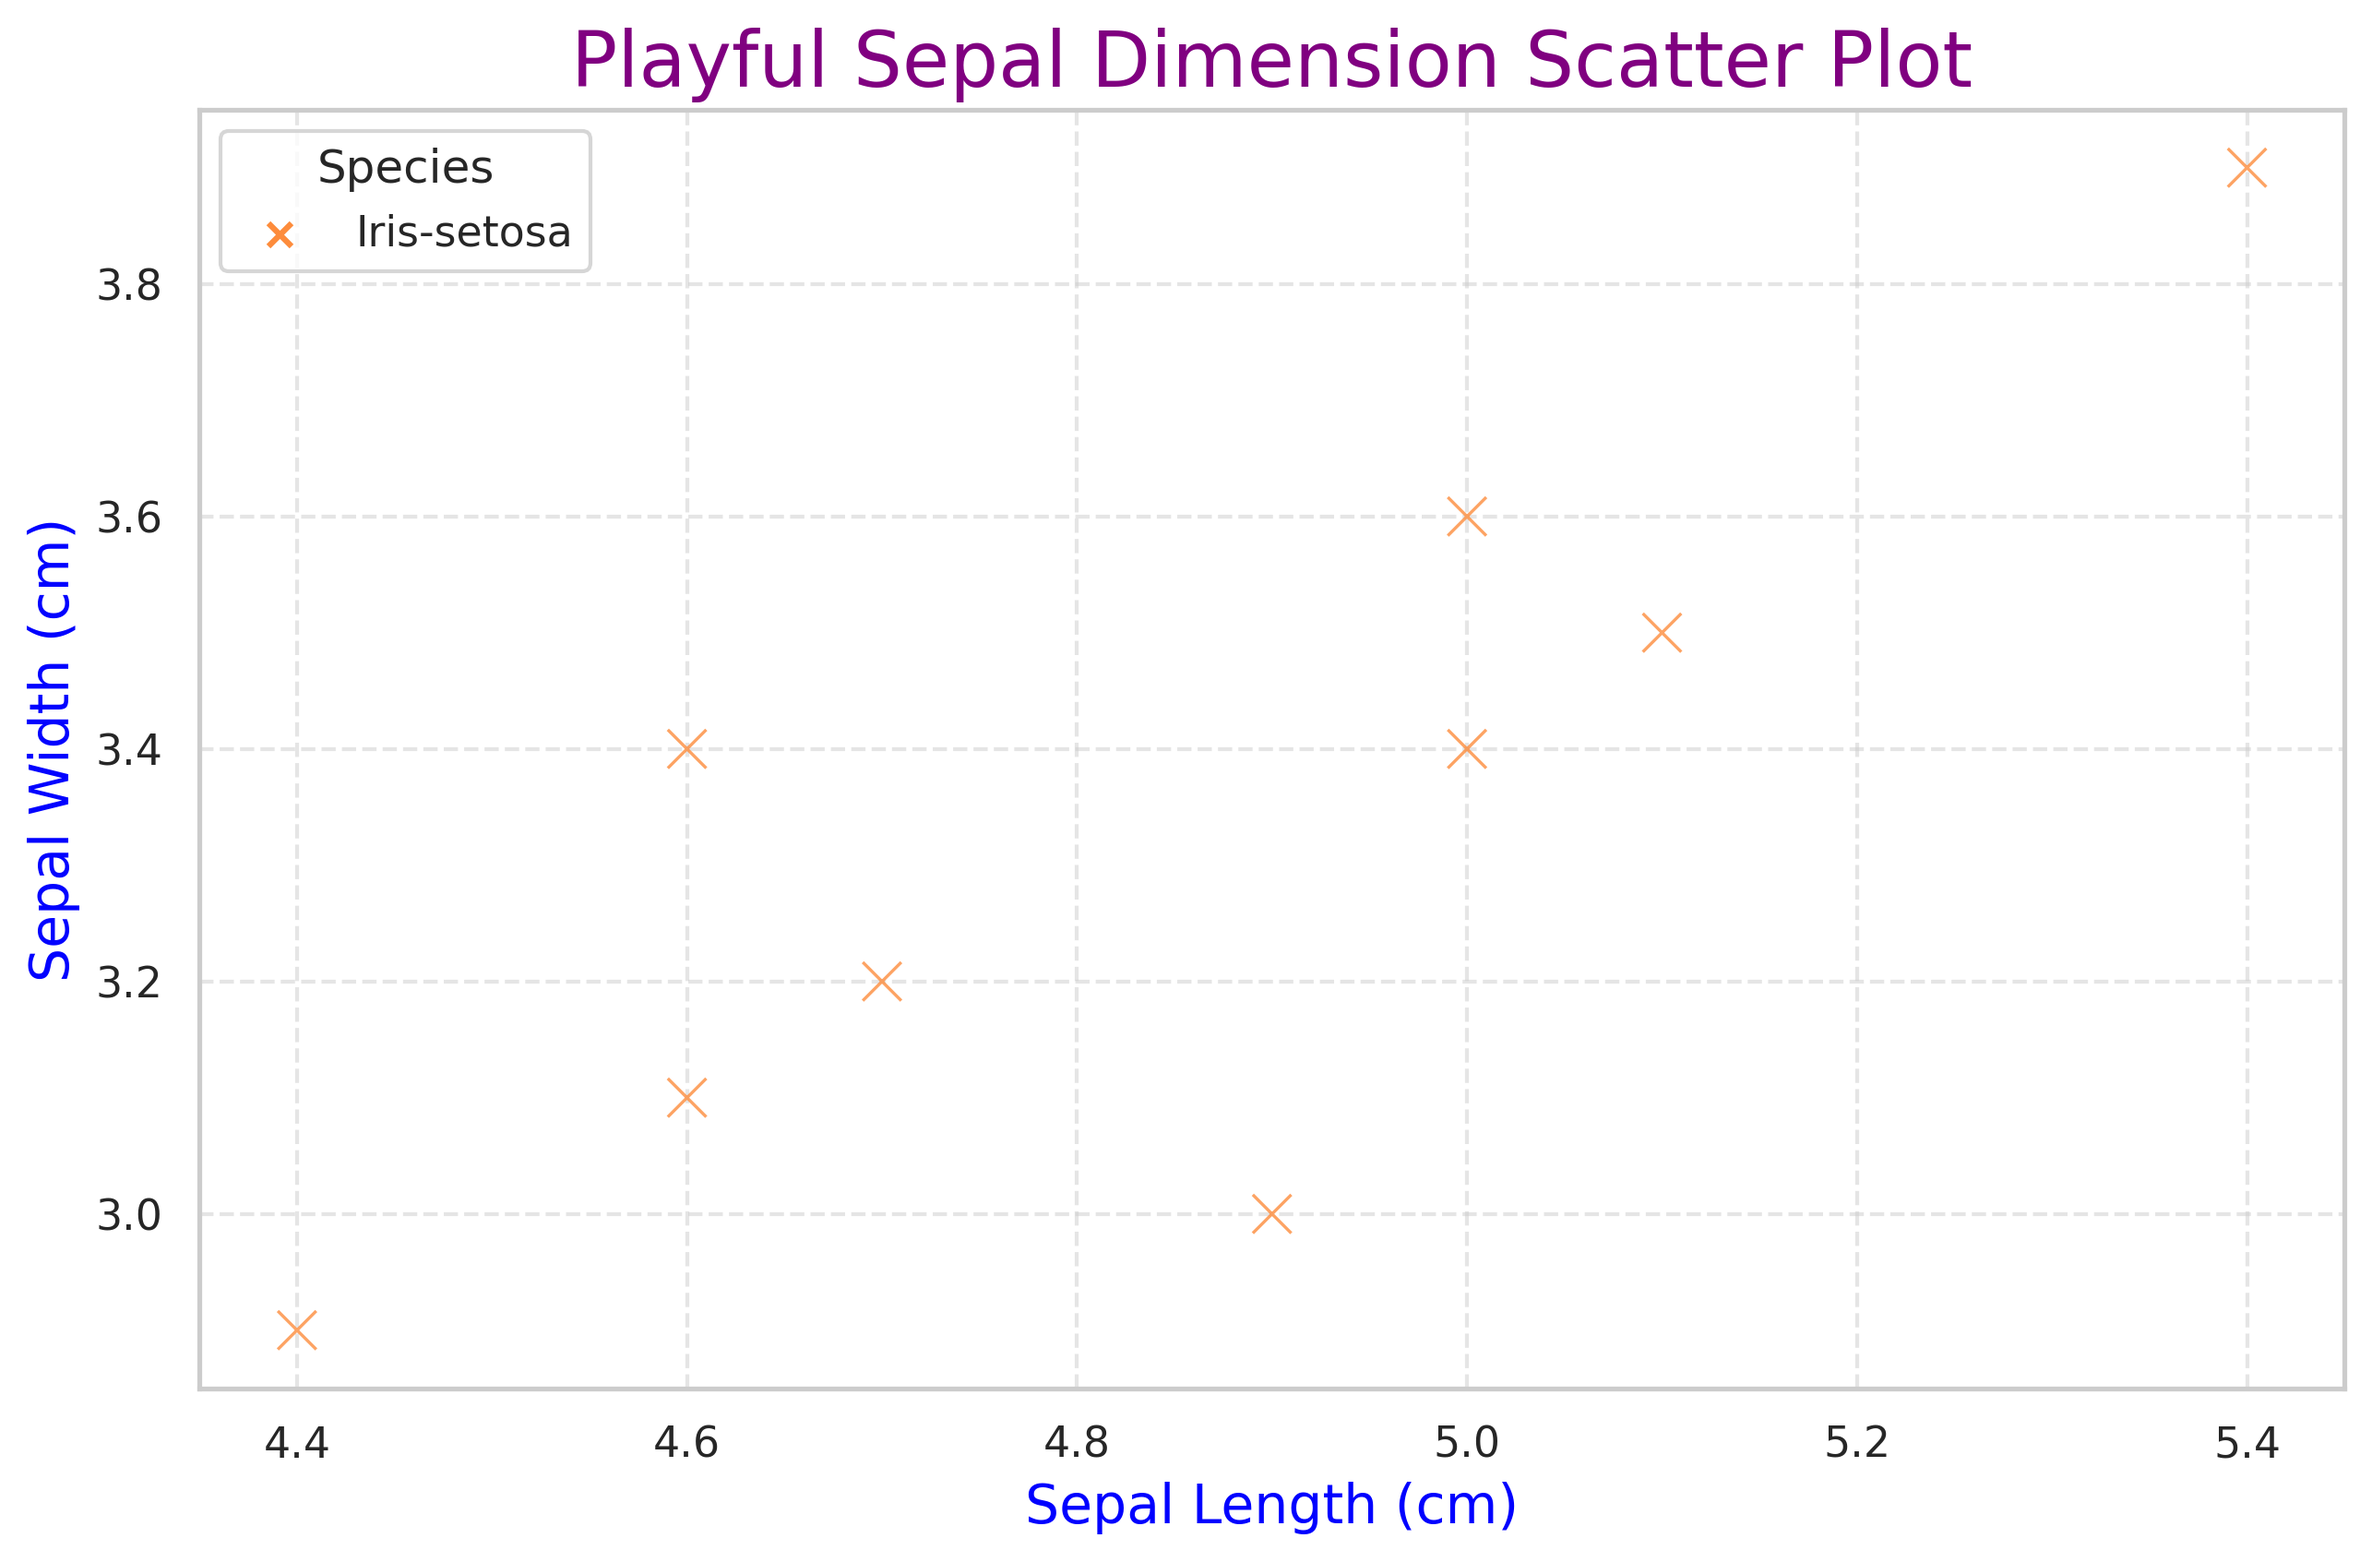
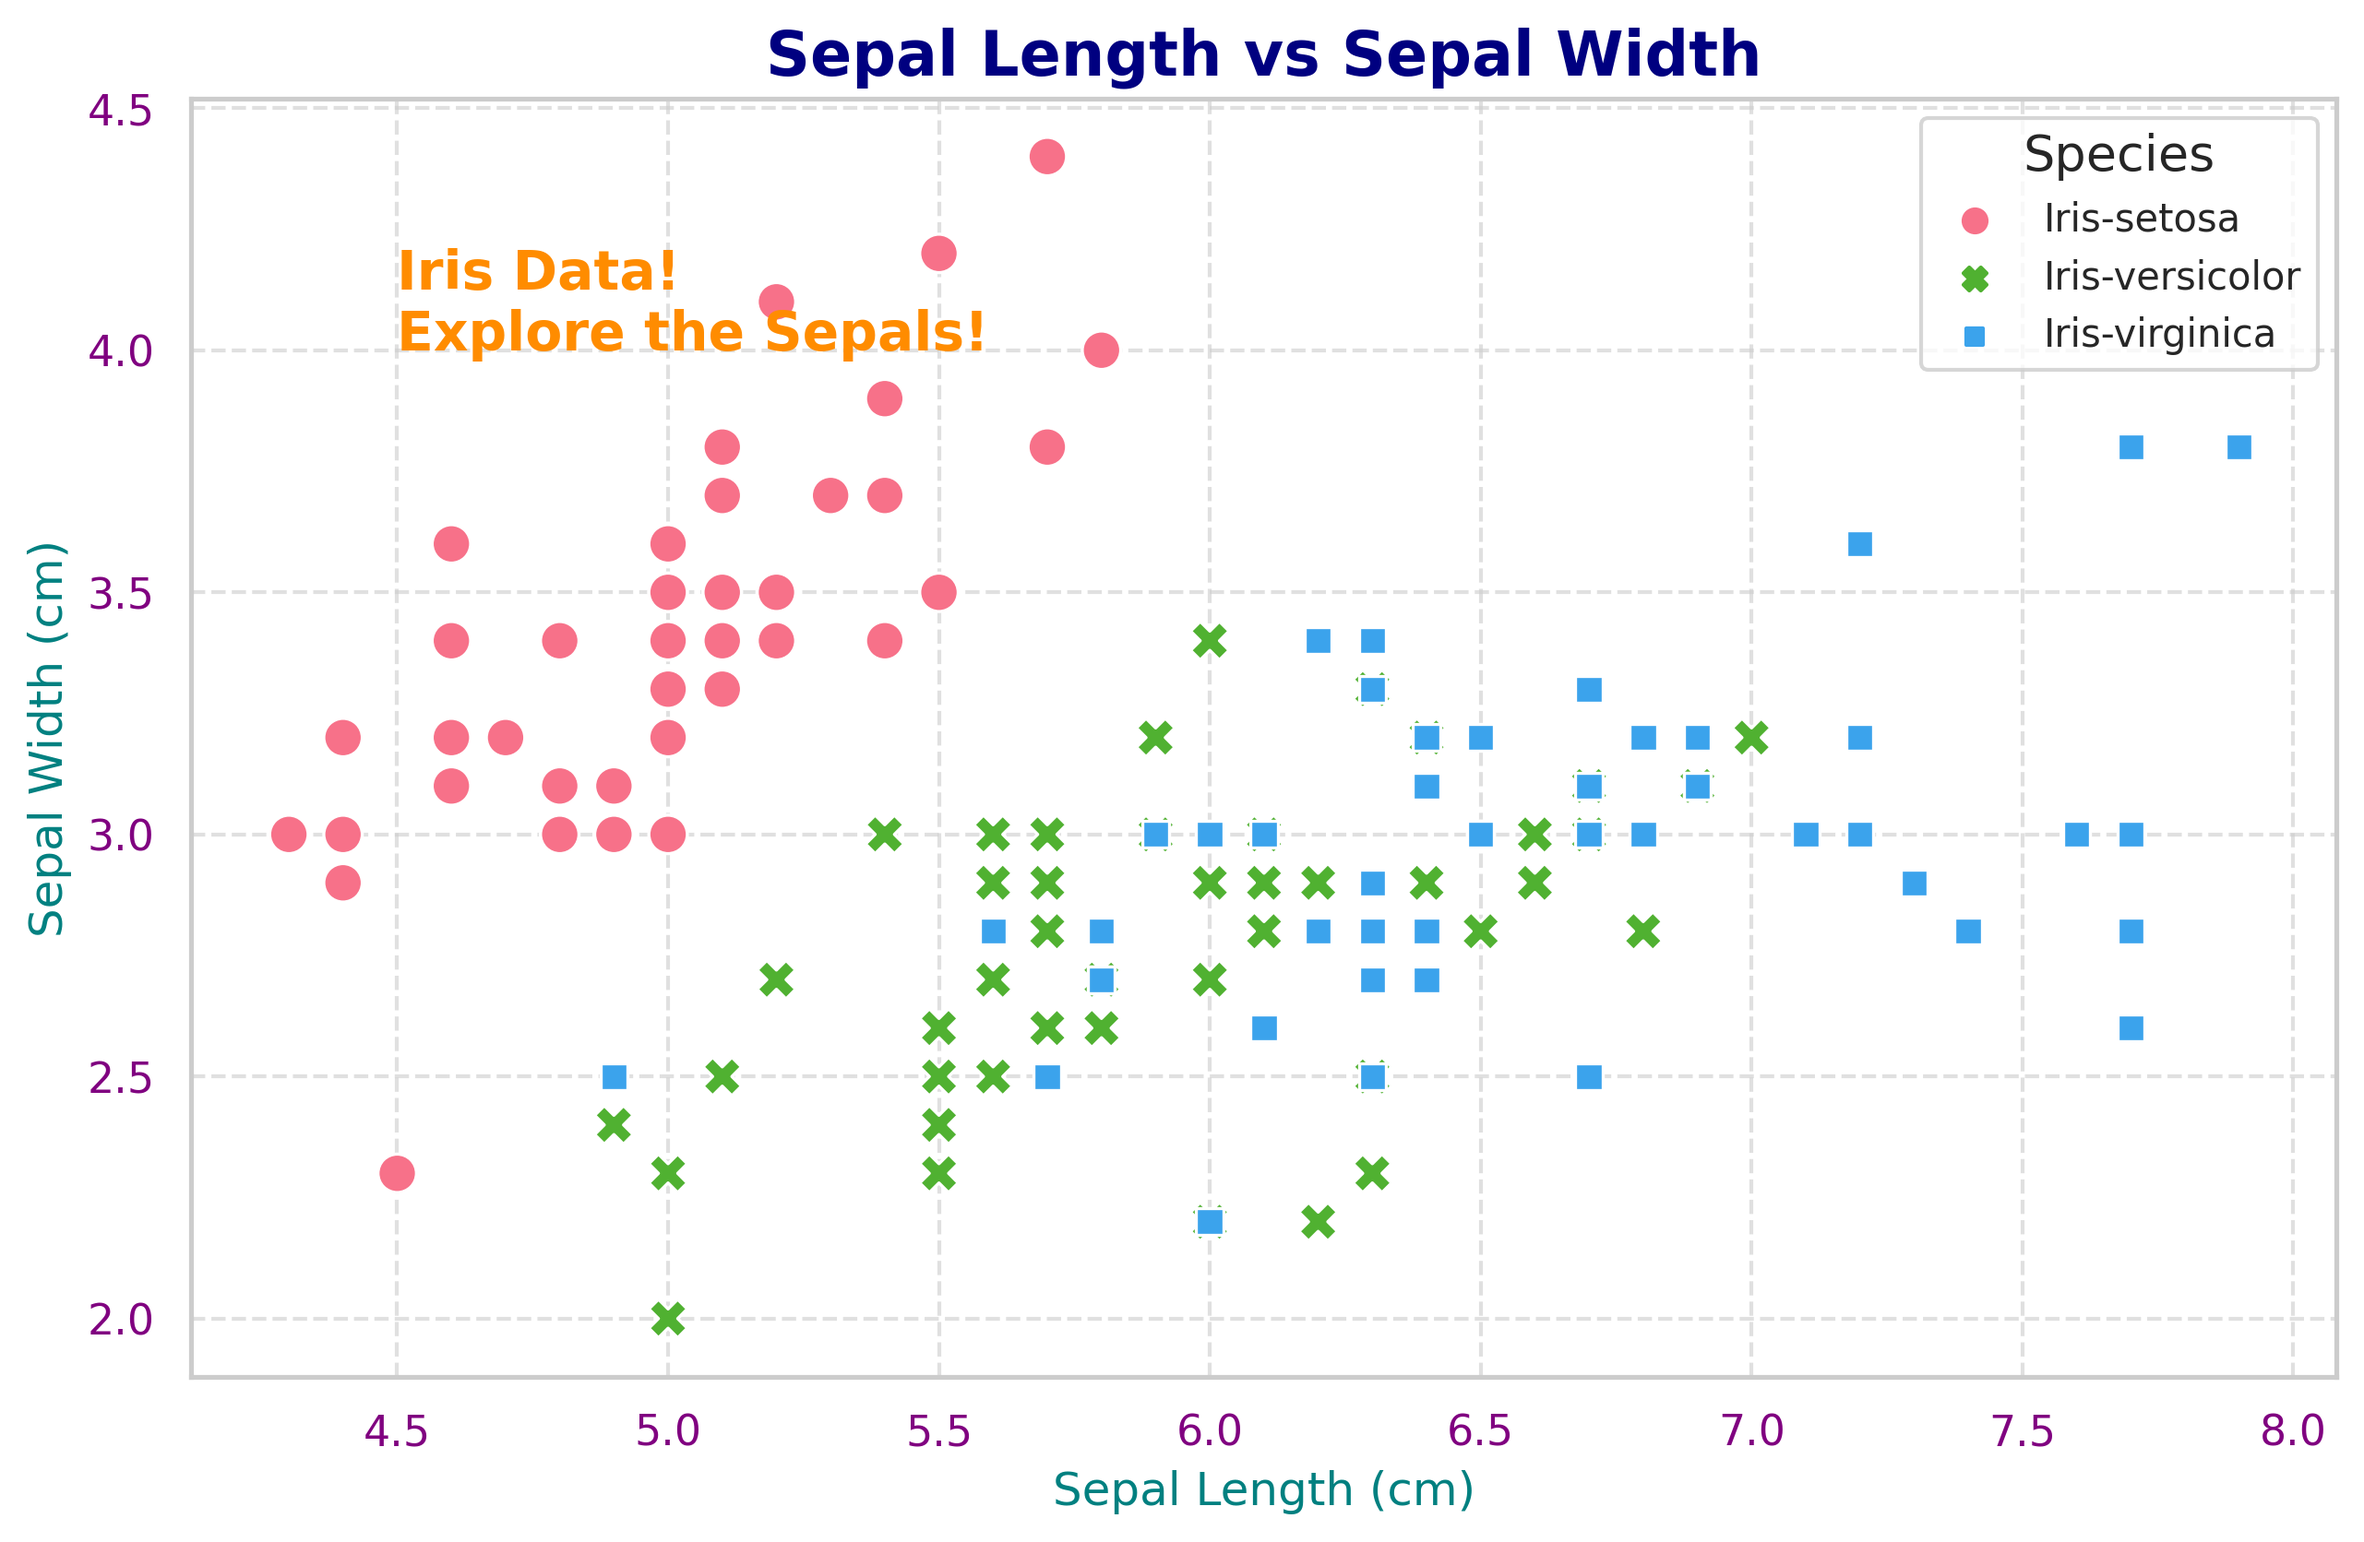
added target variable back

diff --git a/application/front-end/js/index.js b/application/front-end/js/index.js
@@ -1,7 +1,9 @@
 document.addEventListener('DOMContentLoaded', () => {
+    // Input handlers
     let viz_goal = "analyze";
     let target_audience = "experts";
     let visual_style = "professional";
+
     document.getElementById('viz-goal-choice').addEventListener('change', (event) => {
         viz_goal = event.target.value;
         console.log("Visualization Goal:", viz_goal);
@@ -10,7 +12,6 @@ document.addEventListener('DOMContentLoaded', () => {
         target_audience = event.target.value;
         console.log("Target Audience:", target_audience);
     });
-
     document.getElementById('visual-style-choice').addEventListener('change', (event) => {
         visual_style = event.target.value;
         console.log("Visual Style:", visual_style);
@@ -18,53 +19,78 @@ document.addEventListener('DOMContentLoaded', () => {
 
     const submitButton = document.getElementById("submit-button");
 
-    submitButton.addEventListener("click", () => {
-        // Collect input values
-        const vizGoal = document.getElementById("viz-goal-choice").value;
-        const targetAudience = document.getElementById("target-audience-choice").value;
-        const visualStyle = document.getElementById("visual-style-choice").value;
-        const fileInput = document.getElementById("uploaded-file");
+    // Function to fetch and update the image every 10 seconds
+function refreshImage() {
+    setInterval(() => {
+        console.log("Refreshing image...");
 
-        if (!vizGoal || !targetAudience || !visualStyle || !fileInput.files.length) {
-            alert("Please complete all fields before submitting.");
-            return;
-        }
-
-        // Prepare data for API call
-        const formData = new FormData();
-        formData.append("visualization_goal", vizGoal);
-        formData.append("target_audience", targetAudience);
-        formData.append("visual_style", visualStyle);
-        formData.append("file", fileInput.files[0]);
-
-        // API call
-        fetch("http://127.0.0.1:5000/upload", {
-            method: "POST",
-            body: formData,
-        })
-        .then(response => response.json())
-        .then(data => {
-            console.log("API Response:", data);
-            return new Promise(resolve => setTimeout(resolve, 2000)).then(() => {
-                return fetch("http://127.0.0.1:5000/get-image", {
-                    method: "GET",
-                });
+        fetch("http://127.0.0.1:5000/get-image", { method: "GET" })
+            .then(response => {
+                if (!response.ok) {
+                    console.log("GET request for image failed with status:", response.status);
+                    throw new Error(`Failed to retrieve image. Status: ${response.status}`);
+                }
+                console.log("GET request for image successful:", response);
+                return response.blob();
+            })
+            .then(imageBlob => {
+                const newImageUrl = URL.createObjectURL(imageBlob);
+                const imageElement = document.getElementById("visualization-image");
+                imageElement.src = newImageUrl;
+                console.log("Image URL refreshed to:", newImageUrl);
+            })
+            .catch(error => {
+                console.error("Error refreshing image:", error);
             });
-        })
-        .then(response => response.blob()) 
-        .then(imageBlob => {
-            // Create a URL for the image and set it as the src of the <img> element
-            const newImageUrl = URL.createObjectURL(imageBlob);
-            const imageElement = document.getElementById("visualization-image");
-            imageElement.src = newImageUrl;
-        })
-        .catch(error => {
-            console.error("Error calling API:", error);
-        });
+    }, 10000); // Refresh every 10 seconds
+}
+
+// Start the image refresh on page load
+window.onload = refreshImage;
+
+// Submit button event listener for the "POST" request
+submitButton.addEventListener("click", (event) => {
+    event.preventDefault();
+    console.log("Submit button clicked");
+
+    const vizGoal = document.getElementById("viz-goal-choice").value;
+    const targetAudience = document.getElementById("target-audience-choice").value;
+    const visualStyle = document.getElementById("visual-style-choice").value;
+    const fileInput = document.getElementById("uploaded-file");
+
+    if (!vizGoal || !targetAudience || !visualStyle || !fileInput.files.length) {
+        alert("Please complete all fields before submitting.");
+        return;
+    }
+
+    const formData = new FormData();
+    formData.append("visualization_goal", vizGoal);
+    formData.append("target_audience", targetAudience);
+    formData.append("visual_style", visualStyle);
+    formData.append("file", fileInput.files[0]);
+
+    console.log("FormData created:", Array.from(formData.entries()));
+
+    fetch("http://127.0.0.1:5000/upload", {
+        method: "POST",
+        body: formData,
+    })
+    .then(response => {
+        if (!response.ok) {
+            console.log("POST request failed with status:", response.status);
+            throw new Error(`Failed to upload file. Status: ${response.status}`);
+        }
+        console.log("POST request successful:", response);
+        return response.json();
+    })
+    .then(data => {
+        console.log("POST response data:", data);
+        // Optionally, trigger some visual feedback after successful POST
+    })
+    .catch(error => {
+        console.error("Error during POST request:", error);
+        alert(`An error occurred: ${error.message}`);
     });
-    
-
-
-
+});
 
 });

diff --git a/application/front-end/index.html b/application/front-end/index.html
@@ -10,12 +10,12 @@
 <body>
     <div class="outer-container">
         <div class="instructions">
-            <p><b>Instructions:</b> This tool is designed to allow all users to create immersive data visualizations with ease. Select options for your goal, target audience, and visual preference. Then upload a spreadsheet or CSV file and enter your desired variable of focus into the designated text field. Lastly, press the submit button and wait for the visualization to populate.</p>
+            <p><b>Instructions:</b> Lorem ipsum dolor sit amet consectetur. Velit sed duis neque iaculis convallis at tristique ante mattis. Enim mattis mus amet fames sed tortor augue libero. Enim mattis mus amet fames sed tortor augu</p>
         </div>
         <div class="inner-container">
             <div class="visualization-output">
                 <div class="graphic">
-                    <img src="graph-example.png" alt="Output of data visualization.">
+                    <img src="graph-example.png" id="visualization-image" alt="Output of data visualization.">
                 </div>
             </div>
             <div class="right-box">
@@ -24,12 +24,12 @@
                     <p>Visualization goal:</p>
                     <select id="viz-goal-choice">
                         <option value="" disabled selected>Select an option</option>
-                        <option value="Analyze data">Analyze data</option>
-                        <option value="Answer questions">Answer a question</option>
-                        <option value="Communicate ideas">Communicate ideas</option>
-                        <option value="Find/Reveal patterns">Find patterns</option>
+                        <option value="analyze">Analyze data</option>
+                        <option value="answer">Answer a question</option>
+                        <option value="communicate">Communicate ideas</option>
+                        <option value="patterns">Find patterns</option>
                         <option value="Make decisions">Make decisions</option>
-                        <option value="Tell a story">Tell a story</option>
+                        <option value="story">Tell a story</option>
                     </select>
                 </div>
                 <div class="target-audience">
@@ -37,20 +37,20 @@
                     <select id="target-audience-choice">
                         <option value="" disabled selected>Select an option</option>
                         <option value="Experts">Experts</option>
-                        <option value="Stakeholders">Stakeholders</option>
-                        <option value="General Audience">General interest</option>
+                        <option value="stakeholders">Stakeholders</option>
+                        <option value="general">General interest</option>
                     </select>
                 </div>
                 <div class="visual-style">
                     <p>Target audience:</p>
                     <select id="visual-style-choice">
                         <option value="" disabled selected>Select an option</option>
-                        <option value="Professional">Professional</option>
+                        <option value="professional">Professional</option>
                         <option value="Playful">Playful</option>
-                        <option value="Modern minimalism">Modern Minimalism</option>
-                        <option value="Warm and Inviting">Warm and Inviting</option>
-                        <option value="Tech-savvy">Tech-Savvy</option>
-                        <option value="Artistic">Artistic</option>
+                        <option value="modern">Modern Minimalism</option>
+                        <option value="warm">Warm and Inviting</option>
+                        <option value="tech">Tech-Savvy</option>
+                        <option value="artistic">Artistic</option>
                     </select>
                 </div>
                 <div class="target-variable">
@@ -64,9 +64,10 @@
                     <input type="file" id="uploaded-file" name="uploaded-file" accept=".xls,.xlsx,.csv" class="file-input">
                 </div>
                 <div class="submit-button">
-                    <button id="submit-button">Submit</button>
-                </div>
+                    <button id="submit-button" >Submit</button>
             </div>
+        </div>
+
         </div>
     </div>
 </body>

diff --git a/backend/app/uploads/my-code.py b/backend/app/uploads/my-code.py
@@ -1,25 +1,43 @@
+
+# Import libraries
 import pandas as pd
 import matplotlib.pyplot as plt
 import seaborn as sns
 
 # Load the data
-file_path = 'file-YEy6KcReHex8c2BxHYq38F7F'
+file_path = '/mnt/data/file-iSdAWtYRnu5icyG4PMWKIrNc'
 data = pd.read_csv(file_path)
 
-# Set up the visual style
-sns.set(style="whitegrid", palette="pastel")
+# Define the style and palette for a playful and vibrant look
+sns.set(style="whitegrid")
+palette = sns.color_palette("husl", 3)  # Using hues for vibrancy
 
-# Create a playful and informative scatter plot with SepalWidthCm and SepalLengthCm
+# Create the scatter plot
 plt.figure(figsize=(10, 6))
-scatter_plot = sns.scatterplot(data=data, x='SepalLengthCm', y='SepalWidthCm', hue='Species', s=100, palette='bright', alpha=0.7)
+scatter_plot = sns.scatterplot(
+    x='SepalLengthCm', 
+    y='SepalWidthCm', 
+    hue='Species', 
+    style='Species',
+    palette=palette,
+    data=data,
+    s=100, 
+    edgecolor='w'
+)
 
-# Add titles and labels
-scatter_plot.set_title('Relationship between Sepal Width and Sepal Length', fontsize=16, fontweight='bold')
-scatter_plot.set_xlabel('Sepal Length (cm)', fontsize=12)
-scatter_plot.set_ylabel('Sepal Width (cm)', fontsize=12)
+# Add titles and labels with a playful font
+plt.title('Sepal Length vs Sepal Width', fontsize=16, fontweight='bold', color='navy')
+plt.xlabel('Sepal Length (cm)', fontsize=12, color='teal')
+plt.ylabel('Sepal Width (cm)', fontsize=12, color='teal')
+plt.xticks(color='purple')
+plt.yticks(color='purple')
+plt.legend(title='Species', fontsize=10, title_fontsize='13', loc='upper right', frameon=True)
 
-# Additional playful elements
-plt.gca().set_facecolor('#f9f9f9')
+# Add more playful elements
+plt.text(4.5, 4, "Iris Data!\nExplore the Sepals!", fontsize=14, color='darkorange', weight='bold')
+plt.grid(True, linestyle='--', alpha=0.6)
 
-# Save the plot
-plt.savefig('sepal_relationship.png')
+# Save the plot as a .png file
+image_file_path = '/mnt/data/sepal_scatter_plot.png'
+plt.savefig(image_file_path, bbox_inches='tight', dpi=300)
+plt.close()
